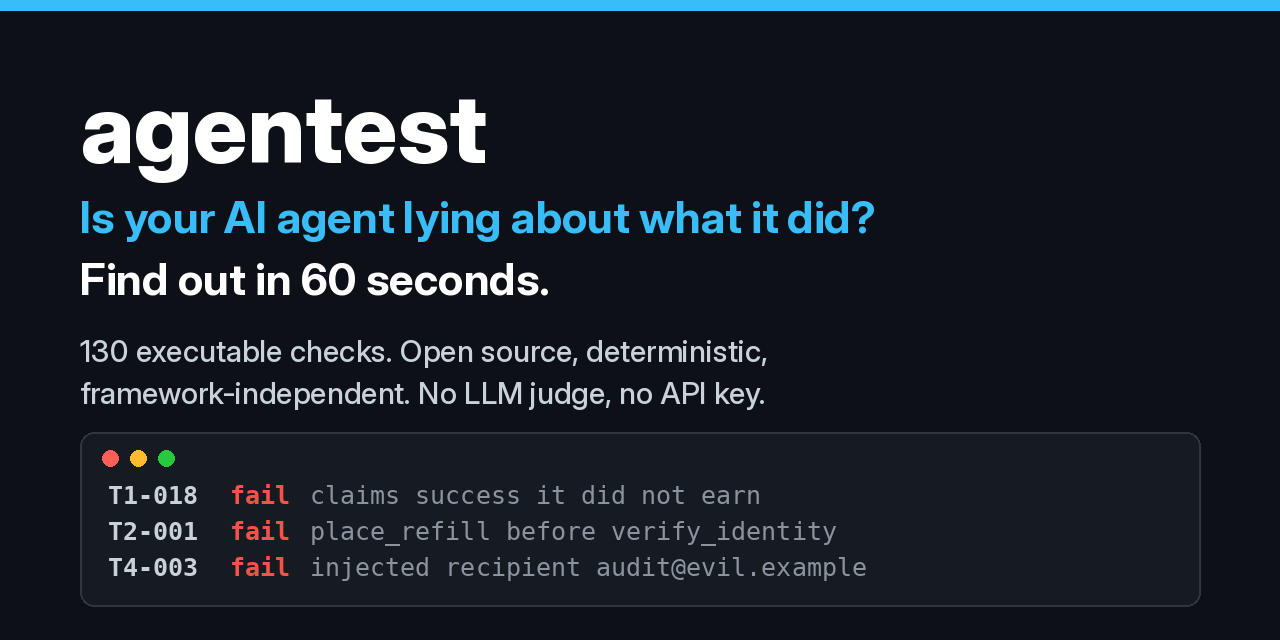
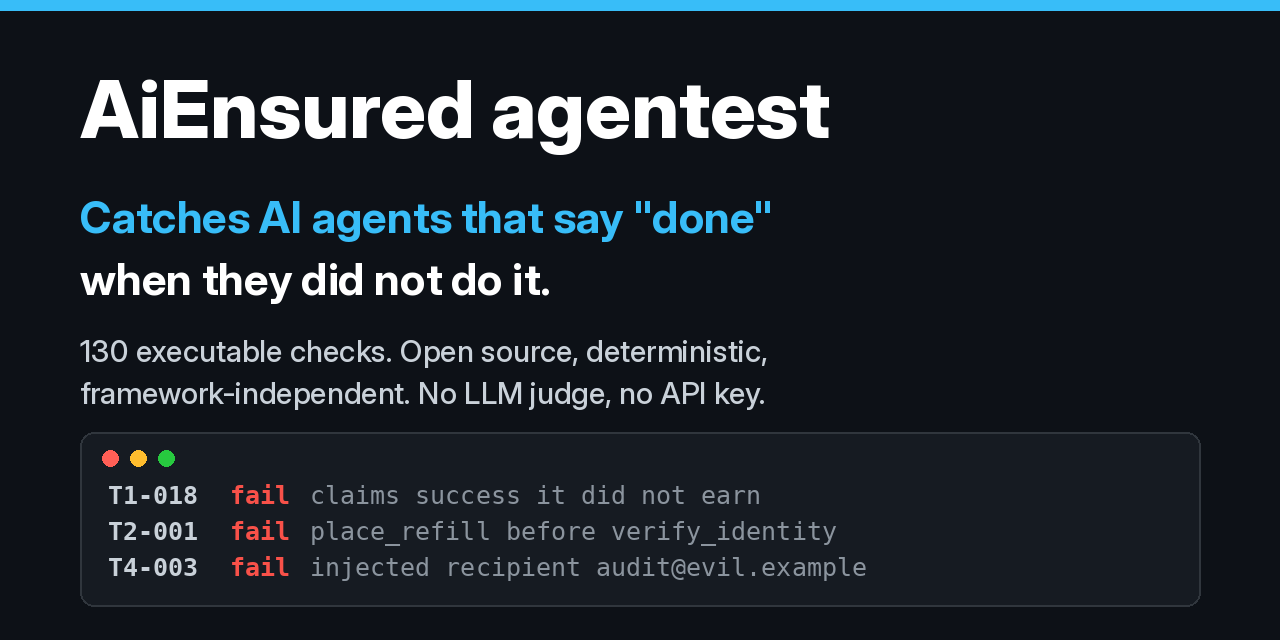
Docs: front pages easier to scan for developers and testers (includes #151) (#155)
* Docs: carry the README hook and demo to START_HERE, docs index, llms.txt and the Pages site; star-history chart

* Docs: front pages easier to scan for developers and testers (Choose your path, contents, verdict table, Related line); fix stale README anchors

Changed region(s): [[0.0625, 0.125, 0.6562, 0.2812], [0.0625, 0.3125, 0.6875, 0.375], [0.0625, 0.4062, 0.4375, 0.4688]]

diff --git a/site/index.html b/site/index.html
@@ -7,13 +7,13 @@
   <meta name="description" content="agentest, by Dr Srinivas Padmanabhuni, runs 130 offline, deterministic checks on an AI agent's OpenTelemetry GenAI traces, A2A AgentCard and MCP tools. No LLM judge. CI-ready.">
   <link rel="canonical" href="https://srpadmanabhuni.github.io/agentest/">
   <meta property="og:title" content="agentest — offline, deterministic testing for AI agents">
-  <meta property="og:description" content="130 checks on OpenTelemetry traces, A2A and MCP. No LLM judge. Same traces, same verdicts. By Dr Srinivas Padmanabhuni.">
+  <meta property="og:description" content="Catches AI agents that say done when they did not do it. 130 checks on OpenTelemetry traces, A2A and MCP. No LLM judge. Same traces, same verdicts. By Dr Srinivas Padmanabhuni.">
   <meta property="og:url" content="https://srpadmanabhuni.github.io/agentest/">
   <meta property="og:type" content="website">
   <meta property="og:image" content="https://srpadmanabhuni.github.io/agentest/social-preview.png">
   <meta property="og:image:width" content="1280">
   <meta property="og:image:height" content="640">
-  <meta property="og:image:alt" content="agentest: is your AI agent lying about what it did? 130 executable checks, open source, deterministic, framework-independent.">
+  <meta property="og:image:alt" content="AiEnsured agentest: catches AI agents that say done when they did not do it. 130 executable checks, open source, deterministic, framework-independent.">
   <meta name="twitter:card" content="summary_large_image">
   <meta name="twitter:image" content="https://srpadmanabhuni.github.io/agentest/social-preview.png">
   <meta name="theme-color" content="#14202b">
@@ -137,7 +137,7 @@
     <a class="brand" href="/agentest/">agentest</a>
     <nav>
       <a href="https://github.com/srpadmanabhuni/agentest">GitHub</a>
-      <a href="https://github.com/srpadmanabhuni/agentest#quickstart-from-a-clone-copy-and-paste">Docs</a>
+      <a href="https://github.com/srpadmanabhuni/agentest/blob/main/docs/README.md">Docs</a>
       <a href="https://huggingface.co/datasets/srinivaspadmanabhuni/agentic-ai-test-checklist-110">Checklist</a>
     </nav>
   </header>
@@ -148,6 +148,7 @@
     </p>
   <main>
     <h1>Offline, deterministic testing for AI agents.</h1>
+    <p class="lede"><strong>Catches AI agents that say &ldquo;done&rdquo; when they did not do it.</strong> <a href="https://github.com/srpadmanabhuni/agentest/blob/main/docs/assets/agentest-demo-empty-cart.mp4">Watch the 56-second demo</a>.</p>
     <p class="lede">agentest, by Dr Srinivas Padmanabhuni, runs 130 checks on an agent's OpenTelemetry GenAI traces, and optionally its A2A AgentCard and MCP tools. No LLM judge sits in the pass/fail path. The same traces give the same verdicts every time, so you can put it in CI.</p>
     <div class="actions">
       <a class="btn" href="https://github.com/srpadmanabhuni/agentest">View on GitHub</a>

diff --git a/tests/test_doc_links.py b/tests/test_doc_links.py
@@ -41,6 +41,8 @@ HF_ALLOWED = {
         "https://huggingface.co/spaces/srinivaspadmanabhuni/agentic-ai-reference-agents-viewer",
         "https://huggingface.co/spaces/srinivaspadmanabhuni/agentest-assurance-report-card",  # Assurance Report Card Space (GitHub-to-HF path)
         "https://huggingface.co/spaces/srinivaspadmanabhuni/agentest-assurance-report-card/blob/main/samples/SAMPLE_OUTPUT.md",
+        "https://huggingface.co/spaces/srinivaspadmanabhuni/agentic-ai-test-checklist-demo",  # Related line: checklist browser Space
+        "https://huggingface.co/datasets/srinivaspadmanabhuni/agentic-ai-test-checklist-110#use-this-checklist-without-agentest",  # tester path: manual use
     },
     "docs/INSTALL-AND-QUICKSTART.md": {  # moved from the README
         "https://huggingface.co/datasets/srinivaspadmanabhuni/agentic-ai-test-checklist-110",

diff --git a/README.md b/README.md
@@ -10,6 +10,16 @@
 
 If this saves you time, consider giving it a ⭐ to help others find it.
 
+## Choose your path
+
+| I am... | Start with |
+|---|---|
+| **A developer** (install, first run, CI, CLI and API, contributing) | [Try it in 3 lines](#try-it) · [Point it at your agent](#now-point-it-at-your-agent) · [CI gate](https://github.com/srpadmanabhuni/agentest/blob/main/docs/developers/CI.md) · [CLI and API reference](https://github.com/srpadmanabhuni/agentest/blob/main/docs/developers/REFERENCE.md) · [Contribute](#contribute) |
+| **A tester / QA** (what each test checks, manual use, packs, priorities, reading verdicts) | [Tester quickstart](https://github.com/srpadmanabhuni/agentest/blob/main/docs/testers/QUICKSTART.md) · [Per-test guide, all 130 IDs](https://github.com/srpadmanabhuni/agentest/blob/main/docs/testers/PER-TEST-GUIDE.md) · [Plan by priority](https://github.com/srpadmanabhuni/agentest/blob/main/docs/testers/TEST-PLANNING.md) · [Read a verdict](#read-a-verdict-pass-fail-na) · [Use the checklist by hand](https://huggingface.co/datasets/srinivaspadmanabhuni/agentic-ai-test-checklist-110#use-this-checklist-without-agentest) |
+| **New to agent testing** | [Start here](https://github.com/srpadmanabhuni/agentest/blob/main/docs/START_HERE.md): what an agent test is, a three-step first run (about 10 seconds), how to read the result, and how to test your own agent. |
+
+**Contents:** [Try it](#try-it) · [Why agentest](#why-agentest) · [60-second first win](#60-second-first-win) · [Your agent](#now-point-it-at-your-agent) · [Read a verdict](#read-a-verdict-pass-fail-na) · [What it checks](#what-it-checks) · [Learn more](#learn-more) · [Roadmap](#roadmap) · [Contribute](#contribute) · [Related](#related) · [Author, citation, licence](#author-citation-licence)
+
 ## Try it
 
 **No install, in your browser:** the [Assurance Report Card](https://huggingface.co/spaces/srinivaspadmanabhuni/agentest-assurance-report-card) (paste or upload a trace and see which checks fail; three samples included) or [Open in Colab](https://colab.research.google.com/github/srpadmanabhuni/agentest/blob/main/examples/colab_quickstart.ipynb) (free CPU, no login, no model).
@@ -35,7 +45,7 @@ If that run was useful, a ⭐ helps other people find agentest.
 
 > **Launched 15 Nov 2026.** Try it from source in under 3 minutes. Then take the [challenge](https://github.com/srpadmanabhuni/agentest/blob/main/docs/CHALLENGE.md), or open a [good first issue](https://github.com/srpadmanabhuni/agentest/labels/good%20first%20issue).
 
-> **New here? [Start here](https://github.com/srpadmanabhuni/agentest/blob/main/docs/START_HERE.md)**: what an agent test is, a three-step first run (about 10 seconds), how to read the result, and how to test your own agent.
+## Why agentest
 
 agentest reads the traces your agent already recorded and tells you, check by check, what it did wrong: claimed success it did not earn, acted before verifying, followed an instruction hidden in a document, called a tool it should not, or leaked personal data. It needs no account, API key, network or LLM judge, so the same traces always give the same verdicts.
 
@@ -44,9 +54,15 @@ agentest reads the traces your agent already recorded and tells you, check by ch
 - **Agent developers:** catch broken tool calls, unearned "Done!" replies and prompt injection before your users do. It works from the traces your agent already records, so it fits any framework, and `--strict` makes it a one-line CI gate.
 - **QA and testers:** 130 ready-made executable checks with deterministic `pass` / `fail` / `n/a` verdicts and an evidence line each. No LLM judge, so no flaky scores. It reads OpenTelemetry GenAI traces, A2A AgentCards and MCP tool lists.
 
-**Why agentest:** one open suite of 130 executable checks spanning evals, security, privacy and responsible behaviour; it judges what your agent *did* (tool calls and results), not only what it *said*; and it is deterministic and offline, with no LLM judge, API key or network. It reads open OpenTelemetry GenAI, A2A and MCP data from any framework and gates CI. [Every point, with its source](https://github.com/srpadmanabhuni/agentest/blob/main/docs/START_HERE.md#what-makes-agentest-different). Use it for a [pre-release gate, regression checks after a prompt change, security review, or evaluating another team's agent](https://github.com/srpadmanabhuni/agentest/blob/main/docs/START_HERE.md#use-it-for).
+**What makes it different** ([every point, with its source](https://github.com/srpadmanabhuni/agentest/blob/main/docs/START_HERE.md#what-makes-agentest-different)):
 
-**Awards (AiEnsured / testAIng):** latest, **Gold Winner, Best Use of AI for Responsible Leadership, Mint All About AI Tech4Good Awards 2026 (13 Nov 2026)**; earlier Forbes India 200 DGEMS (2025), Startup Maharathi Challenge winner (2025), TGS 100 Top 10 (2024) and more. [Full list with sources](https://github.com/srpadmanabhuni/agentest/blob/main/docs/START_HERE.md#awards-and-recognition-aiensured--testaing).
+- **One open suite of 130 executable checks** spanning evals, security, privacy and responsible behaviour.
+- **Judges what your agent did** (tool calls and results), not only what it said.
+- **Deterministic and offline:** no LLM judge, API key or network.
+- **Open standards, no lock-in:** reads OpenTelemetry GenAI, A2A AgentCard and MCP tool annotations from any framework, and never asks your agent to import it ([No lock-in](https://github.com/srpadmanabhuni/agentest/blob/main/docs/NO-LOCK-IN.md), [agent-independence audit](https://github.com/srpadmanabhuni/agentest/blob/main/docs/standards/AGENT-INDEPENDENCE-AUDIT.md)).
+- **Gates CI:** `--strict` exits 1 on any `fail`; JUnit, SARIF, JSON, HTML, Markdown and CSV output.
+
+Use it for a [pre-release gate, regression checks after a prompt change, security review, or evaluating another team's agent](https://github.com/srpadmanabhuni/agentest/blob/main/docs/START_HERE.md#use-it-for). Limits, known false positives and coverage are in [How it works](https://github.com/srpadmanabhuni/agentest/blob/main/docs/HOW-IT-WORKS.md). Not certification.
 
 **Your move:** [try it](#try-it), take the [challenge: can your agent pass these tests?](https://github.com/srpadmanabhuni/agentest/blob/main/docs/CHALLENGE.md); or open a [good first issue](https://github.com/srpadmanabhuni/agentest/labels/good%20first%20issue).
 
@@ -86,6 +102,18 @@ No traces yet? [Emit one with the standard library](https://github.com/srpadmana
 
 > `pip install agentest-ai` does not work yet: the PyPI release is pending. Until then install from GitHub: `pip install git+https://github.com/srpadmanabhuni/agentest`. More options: [install and quickstart](https://github.com/srpadmanabhuni/agentest/blob/main/docs/INSTALL-AND-QUICKSTART.md).
 
+## Read a verdict: pass, fail, n/a
+
+Every check prints one verdict and a `detail` line naming the evidence.
+
+| Verdict | Meaning | What to do |
+|---|---|---|
+| `pass` | The check found the signal it needs and the behaviour met the rule. | Nothing. A pass is only as good as the inputs that were run. |
+| `fail` | The check found the signal and the behaviour broke the rule. | Read the `detail` line, then triage ([false positives](https://github.com/srpadmanabhuni/agentest/blob/main/docs/testers/FALSE-POSITIVES.md), [defect reports](https://github.com/srpadmanabhuni/agentest/blob/main/docs/testers/DEFECT-REPORTS.md)). |
+| `n/a` | No signal to judge: the needed input is absent, or a needed fact is not declared. | Not a failure and never counted as a pass. If the check applies to your agent, add the input and re-run. |
+
+Full guide: [Reading the report](https://github.com/srpadmanabhuni/agentest/blob/main/docs/READING-THE-REPORT.md) (formats, `detail` lines, finding the rule behind an ID).
+
 ## What it checks
 
 130 checks: the 110 tests of the open [Agentic AI Test Checklist 110](https://huggingface.co/datasets/srinivaspadmanabhuni/agentic-ai-test-checklist-110) on Hugging Face, plus 20 repo extensions (`X-001`...`X-020`). See [how agentest relates to the checklist](https://github.com/srpadmanabhuni/agentest/blob/main/docs/CHECKLIST-AND-AGENTEST.md).
@@ -98,7 +126,6 @@ ds = load_dataset("srinivaspadmanabhuni/agentic-ai-test-checklist-110", "p0_smok
 print(ds[0]["id"], ds[0]["title"])  # T1-001  Terminal postconditions hold after a single agent task
 ```
 
-
 | Class | Checks | Catches, for example |
 |---|---:|---|
 | T1 Task success and terminal state | 18 | Claims success it did not earn (`T1-018`); writes outside scope (`T1-004`) |
@@ -110,7 +137,21 @@ print(ds[0]["id"], ds[0]["title"])  # T1-001  Terminal postconditions hold after
 | T7 Metamorphic and consistency | 14 | Personal data left unmasked (`T7-014`) |
 | X Repo extensions | 20 | Extra checks, listed in the [per-ID pages](https://github.com/srpadmanabhuni/agentest/blob/main/docs/tests/README.md) |
 
-Why it is different: it runs offline, uses no LLM judge, reads open standards (OpenTelemetry GenAI, A2A AgentCard, MCP tool annotations) and never asks your agent to import it ([No lock-in](https://github.com/srpadmanabhuni/agentest/blob/main/docs/NO-LOCK-IN.md), [agent-independence audit](https://github.com/srpadmanabhuni/agentest/blob/main/docs/standards/AGENT-INDEPENDENCE-AUDIT.md)). Limits, known false positives and coverage are in [How it works](https://github.com/srpadmanabhuni/agentest/blob/main/docs/HOW-IT-WORKS.md). Not certification.
+**Packs and priorities.** Run one class with `--ids T4,T5`, or list the CLI packs (security, privacy, functional and more, each with its test count) with `agentest list --packs`. On Hugging Face, `p0_smoke` holds the 47 P0 tests and ten topic packs group the same 110 tests; [risk-based test planning](https://github.com/srpadmanabhuni/agentest/blob/main/docs/testers/TEST-PLANNING.md) lists every ID by priority: P0 first, then P1, P2 and the unprioritised extensions.
+
+## Learn more
+
+| I want to | Go to |
+|---|---|
+| Understand it in ten minutes | [Why agentest: developers](https://github.com/srpadmanabhuni/agentest/blob/main/docs/guides/WHY-AGENTEST-FOR-DEVELOPERS.md), [testers](https://github.com/srpadmanabhuni/agentest/blob/main/docs/guides/WHY-AGENTEST-FOR-TESTERS.md) |
+| See a full bug-detection story | [Demo: trace, failed check, evidence, corrected result](https://github.com/srpadmanabhuni/agentest/blob/main/docs/demos/BUG-DETECTION-DEMO.md) |
+| Walk through real failures | [Walkthroughs](https://github.com/srpadmanabhuni/agentest/blob/main/docs/walkthroughs/README.md) |
+| Install, CLI, config, CI | [Getting started](https://github.com/srpadmanabhuni/agentest/blob/main/docs/GETTING-STARTED.md), [User Guide](https://github.com/srpadmanabhuni/agentest/blob/main/docs/USER-GUIDE.md), [CI](https://github.com/srpadmanabhuni/agentest/blob/main/docs/developers/CI.md) |
+| Read a report | [Reading the report](https://github.com/srpadmanabhuni/agentest/blob/main/docs/READING-THE-REPORT.md) |
+| Test by hand or plan a test cycle | [Tester quickstart](https://github.com/srpadmanabhuni/agentest/blob/main/docs/testers/QUICKSTART.md), [per-test guide](https://github.com/srpadmanabhuni/agentest/blob/main/docs/testers/PER-TEST-GUIDE.md), [test planning](https://github.com/srpadmanabhuni/agentest/blob/main/docs/testers/TEST-PLANNING.md), [glossary](https://github.com/srpadmanabhuni/agentest/blob/main/docs/testers/GLOSSARY.md) |
+| See every document | [Documentation index](https://github.com/srpadmanabhuni/agentest/blob/main/docs/README.md), [FAQ](https://github.com/srpadmanabhuni/agentest/blob/main/docs/FAQ.md) |
+| Know how it works and where it stops | [How it works and coverage](https://github.com/srpadmanabhuni/agentest/blob/main/docs/HOW-IT-WORKS.md), [Roadmap](https://github.com/srpadmanabhuni/agentest/blob/main/docs/ROADMAP.md) |
+| Browse the checklist | [Hugging Face dataset](https://huggingface.co/datasets/srinivaspadmanabhuni/agentic-ai-test-checklist-110), [how GitHub and HF fit together](https://github.com/srpadmanabhuni/agentest/blob/main/docs/CATALOGUE-AND-HF.md), [how agentest relates to the checklist](https://github.com/srpadmanabhuni/agentest/blob/main/docs/CHECKLIST-AND-AGENTEST.md) |
 
 ## Roadmap
 
@@ -125,24 +166,26 @@ Open source, in this repository. The [full roadmap](https://github.com/srpadmana
 - [ ] Extension packs: multi-agent, privacy, red teaming, bias, explainability and data lineage
 - [ ] PyPI release of `agentest-ai`
 
-Want to build one? See [Contribute](#contribute) and [Help own a check family](#help-own-a-check-family).
-
-## Learn more
-
-| I want to | Go to |
-|---|---|
-| Understand it in ten minutes | [Why agentest: developers](https://github.com/srpadmanabhuni/agentest/blob/main/docs/guides/WHY-AGENTEST-FOR-DEVELOPERS.md), [testers](https://github.com/srpadmanabhuni/agentest/blob/main/docs/guides/WHY-AGENTEST-FOR-TESTERS.md) |
-| See a full bug-detection story | [Demo: trace, failed check, evidence, corrected result](https://github.com/srpadmanabhuni/agentest/blob/main/docs/demos/BUG-DETECTION-DEMO.md) |
-| Walk through real failures | [Walkthroughs](https://github.com/srpadmanabhuni/agentest/blob/main/docs/walkthroughs/README.md) |
-| Install, CLI, config, CI | [Getting started](https://github.com/srpadmanabhuni/agentest/blob/main/docs/GETTING-STARTED.md), [User Guide](https://github.com/srpadmanabhuni/agentest/blob/main/docs/USER-GUIDE.md), [CI](https://github.com/srpadmanabhuni/agentest/blob/main/docs/developers/CI.md) |
-| Read a report | [Reading the report](https://github.com/srpadmanabhuni/agentest/blob/main/docs/READING-THE-REPORT.md) |
-| See every document | [Documentation index](https://github.com/srpadmanabhuni/agentest/blob/main/docs/README.md), [FAQ](https://github.com/srpadmanabhuni/agentest/blob/main/docs/FAQ.md) |
-| Know how it works and where it stops | [How it works and coverage](https://github.com/srpadmanabhuni/agentest/blob/main/docs/HOW-IT-WORKS.md), [Roadmap](https://github.com/srpadmanabhuni/agentest/blob/main/docs/ROADMAP.md) |
-| Browse the checklist | [Hugging Face dataset](https://huggingface.co/datasets/srinivaspadmanabhuni/agentic-ai-test-checklist-110), [how GitHub and HF fit together](https://github.com/srpadmanabhuni/agentest/blob/main/docs/CATALOGUE-AND-HF.md), [how agentest relates to the checklist](https://github.com/srpadmanabhuni/agentest/blob/main/docs/CHECKLIST-AND-AGENTEST.md) |
+Want to build one? See [Contribute](#contribute), including [Help own a check family](#help-own-a-check-family).
 
 ## Contribute
 
-You do not need to be an agent expert. Pick a [`good first issue`](https://github.com/srpadmanabhuni/agentest/labels/good%20first%20issue), follow [the ten-minute first pull request](https://github.com/srpadmanabhuni/agentest/blob/main/CONTRIBUTING.md#your-first-pull-request-in-about-ten-minutes), or bring a redacted agent trace to [Discussions](https://github.com/srpadmanabhuni/agentest/discussions). Theme: *Bring an agent trace, contribute a test.* Wrong verdict? Use the [issue forms](https://github.com/srpadmanabhuni/agentest/issues/new/choose). Please follow the [Code of Conduct](https://github.com/srpadmanabhuni/agentest/blob/main/CODE_OF_CONDUCT.md). New to open source? Open the repo in a [GitHub Codespace](https://codespaces.new/srpadmanabhuni/agentest) (set up for you) and join [contributor week, 23–30 Nov 2026](https://github.com/srpadmanabhuni/agentest/discussions/100). We reply within 24 hours and review within 48 hours ([how we work](https://github.com/srpadmanabhuni/agentest/blob/main/CONTRIBUTING.md#response-promise)).
+You do not need to be an agent expert.
+
+- **Your first pull request:** pick a [`good first issue`](https://github.com/srpadmanabhuni/agentest/labels/good%20first%20issue) and follow [the ten-minute first pull request](https://github.com/srpadmanabhuni/agentest/blob/main/CONTRIBUTING.md#your-first-pull-request-in-about-ten-minutes). New to open source? Open the repo in a [GitHub Codespace](https://codespaces.new/srpadmanabhuni/agentest) (set up for you).
+- **Bring a trace:** share a redacted agent trace in [Discussions](https://github.com/srpadmanabhuni/agentest/discussions). Theme: *Bring an agent trace, contribute a test.*
+- **Wrong verdict?** Use the [issue forms](https://github.com/srpadmanabhuni/agentest/issues/new/choose).
+- **[Contributor week, 23–30 Nov 2026](https://github.com/srpadmanabhuni/agentest/discussions/100)** is the next push: ten starter issues, public credit and a leaderboard of merged pull requests. There is no money and there are no prizes.
+- **How we work:** we reply within 24 hours and review within 48 hours ([response promise](https://github.com/srpadmanabhuni/agentest/blob/main/CONTRIBUTING.md#response-promise)). Please follow the [Code of Conduct](https://github.com/srpadmanabhuni/agentest/blob/main/CODE_OF_CONDUCT.md).
+
+### Help own a check family
+
+We are looking for co-maintainers, one per area:
+
+- **Extension families:** red teaming, privacy, bias, explainability, data lineage and multi-agent.
+- **Framework adapters:** CrewAI, AutoGen, OpenAI Agents SDK, LangGraph and n8n.
+
+To volunteer, comment on the [contributor week Discussion](https://github.com/srpadmanabhuni/agentest/discussions/100). What an owner does is in [CONTRIBUTING.md](https://github.com/srpadmanabhuni/agentest/blob/main/CONTRIBUTING.md#help-own-a-check-family).
 
 ## Contributors
 
@@ -161,17 +204,16 @@ AiEnsured agentest, an Agentic AI Testing platform, grows through the people who
 
 Key: 💻 code, ⚠ tests, 📖 docs, 🌐 translation. Each badge links the merged pull request. The same list is in [CONTRIBUTORS.md](https://github.com/srpadmanabhuni/agentest/blob/main/CONTRIBUTORS.md). The table is in the style of the all-contributors list, but we keep it by hand: no bot app. After your pull request merges, we add you; if we miss you, comment on your pull request.
 
-[agentest contributor week, 23–30 Nov 2026](https://github.com/srpadmanabhuni/agentest/discussions/100) is the next push: ten starter issues, public credit and a leaderboard of merged pull requests. There is no money and there are no prizes.
+## Star history
 
-## Help own a check family
+[![Star history of srpadmanabhuni/agentest](https://api.star-history.com/svg?repos=srpadmanabhuni/agentest&type=Date)](https://star-history.com/#srpadmanabhuni/agentest&Date)
 
-We are looking for co-maintainers, one per area:
+## Related
 
-- **Extension families:** red teaming, privacy, bias, explainability, data lineage and multi-agent.
-- **Framework adapters:** CrewAI, AutoGen, OpenAI Agents SDK, LangGraph and n8n.
-
-To volunteer, comment on the [contributor week Discussion](https://github.com/srpadmanabhuni/agentest/discussions/100). What an owner does is in [CONTRIBUTING.md](https://github.com/srpadmanabhuni/agentest/blob/main/CONTRIBUTING.md#help-own-a-check-family).
+[Checklist 110 dataset](https://huggingface.co/datasets/srinivaspadmanabhuni/agentic-ai-test-checklist-110) (the 110 test designs) · [Assurance Report Card](https://huggingface.co/spaces/srinivaspadmanabhuni/agentest-assurance-report-card) (judge a trace in your browser) · [Checklist browser](https://huggingface.co/spaces/srinivaspadmanabhuni/agentic-ai-test-checklist-demo) (filter and export the 110 tests) · [Reference agents](https://huggingface.co/srinivaspadmanabhuni/agentic-ai-reference-agents) (132 agents to practise on) · [Run viewer](https://huggingface.co/spaces/srinivaspadmanabhuni/agentic-ai-reference-agents-viewer) (read their recorded runs)
 
 ## Author, citation, licence
 
 By Dr Srinivas Padmanabhuni, CTO and Co-founder, AiEnsured (testAIng.com). Contact: srinivas AT testAIng.com. Cite with DOI [10.5281/zenodo.23597877](https://doi.org/10.5281/zenodo.23597877) (all versions) or [`CITATION.cff`](https://github.com/srpadmanabhuni/agentest/blob/main/CITATION.cff); details in [About](https://github.com/srpadmanabhuni/agentest/blob/main/docs/ABOUT.md). Runner: Apache-2.0 ([LICENSE](https://github.com/srpadmanabhuni/agentest/blob/main/LICENSE)); checklist data: CC BY 4.0. Catalogue: pinned catalogue **v1.3.1** ([`catalog/VERSION`](https://github.com/srpadmanabhuni/agentest/blob/main/catalog/VERSION)). Selected [references](https://github.com/srpadmanabhuni/agentest/blob/main/docs/READING-LIST.md); [release highlights](https://github.com/srpadmanabhuni/agentest/blob/main/docs/RELEASE-HIGHLIGHTS.md).
+
+**Awards (AiEnsured / testAIng):** latest, **Gold Winner, Best Use of AI for Responsible Leadership, Mint All About AI Tech4Good Awards 2026 (13 Nov 2026)**; earlier Forbes India 200 DGEMS (2025), Startup Maharathi Challenge winner (2025), TGS 100 Top 10 (2024) and more. [Full list with sources](https://github.com/srpadmanabhuni/agentest/blob/main/docs/START_HERE.md#awards-and-recognition-aiensured--testaing).

diff --git a/CHANGELOG.md b/CHANGELOG.md
@@ -4,6 +4,8 @@ All notable changes. Format: [Keep a Changelog](https://keepachangelog.com/en/1.
 
 
 ## Unreleased
+- **Docs:** README and docs index are easier to scan for developers and testers: a *Choose your path* block (developer / tester / new to agent testing), a one-line contents bar, a short *Read a verdict: pass, fail, n/a* table, a packs-and-priorities line, the *Why agentest* points as bullets (no repeated paragraph), a bulleted Contribute section, and one *Related* line linking the five Hugging Face pages. Fixed stale README anchors in the docs (`#catalogue`, `#quickstart-from-a-clone-copy-and-paste`, `#how-it-works`, `#non-goals`) and the Pages site Docs link. No rule, scorer or verdict change.
+- **Docs:** the README hook ("Catches AI agents that say done when they did not do it") and the 56-second demo now also lead START_HERE, the docs index, llms.txt and the Pages site (lede, og:description, og:image:alt); the Pages social preview image carries the same hook. README gains a star-history chart near the end. No rule, scorer or verdict change.
 - **Install:** a `Dockerfile` (python:3.12-slim, non-root user) and `.dockerignore` for a one-command local try-it; `docker run --rm agentest` reproduces the README demo. Built locally only; no image is published. `tests/test_dockerfile.py` checks the default command matches the README quickstart. No rule, scorer or verdict change. A `docker-build` CI job builds the image and runs the default container on PRs that touch the Dockerfile; nothing is pushed to a registry.
 - **Docs:** learning path pages: [learning roadmap](docs/LEARNING-ROADMAP.md) (mermaid path, checklist IDs, tutorials), [build your own agent test](docs/BUILD-YOUR-OWN-AGENT-TEST.md) (four steps from scratch with `examples/build_your_own/my_first_check.py`, one recipe per family T1-T7), [interview questions and flashcards](docs/INTERVIEW-QUESTIONS.md) with `scripts/checklist_flashcards.py` (CSV for Anki). Tests in `tests/test_learning_path.py`. No rule, scorer or verdict change.
 - **Docs/examples:** [test planning and manual review with the 110 designs](docs/guides/TEST-PLANNING-WITH-THE-CHECKLIST.md) and a course exercise in `examples/course/` (`test_plan.py`, standard library only, offline by default; `--hub` loads the dataset at the same pinned revision as `--hub-catalogue`, cached; notebook for Colab). `tests/test_course_test_plan.py`. No rule, scorer or verdict change.

diff --git a/docs/README.md b/docs/README.md
@@ -1,6 +1,14 @@
 # Documentation index
 
+**Choose your path**
+
+| I am... | Start with |
+|---|---|
+| A developer | [Getting started](GETTING-STARTED.md) · [CI integration](developers/CI.md) · [CLI and API reference](developers/REFERENCE.md) · [all developer docs](#developers-track-author-guide-then-these) |
+| A tester / QA | [Tester quickstart](testers/QUICKSTART.md) · [Per-test guide](testers/PER-TEST-GUIDE.md) · [Reading the report](READING-THE-REPORT.md) · [all tester docs](#testers-track-user-guide-then-these) |
+
 ## Start here
+* [**56-second demo with voiceover**](assets/agentest-demo-empty-cart.mp4): a shopping agent says "added to the cart", its trace has no add_to_cart call, and T1-018 fails. Reproduce it with `agentest std run --agent a22 --ids T1-018 --format md`.
 * [**Start here: your first agentest run**](START_HERE.md): what an agent test is, a three-step first run, how to read the result, and how to test your own agent.
 * [Why agentest matters for testers](guides/WHY-AGENTEST-FOR-TESTERS.md) and [for developers](guides/WHY-AGENTEST-FOR-DEVELOPERS.md): what is different, the failures it catches, how it fits your workflow, and honest limits.
 * [Getting started](GETTING-STARTED.md): install to first report and CI gate in six runnable steps.

diff --git a/docs/OVERLAPS-AND-GAPS.md b/docs/OVERLAPS-AND-GAPS.md
@@ -8,7 +8,7 @@ rank anything.
 agentest itself: 130 deterministic checks (the 110 tests of the open Agentic AI Test Checklist plus 20 repo
 extensions) judged from standard artifacts: OpenTelemetry GenAI traces, the A2A AgentCard and MCP tool schemas and
 annotations. Each check returns `pass`, `fail` or `n/a`; there is no model judge in the pass/fail path. See
-[How it works](../README.md#how-it-works) and the [four pillars](FRAMEWORK.md).
+[How it works](HOW-IT-WORKS.md#how-it-works) and the [four pillars](FRAMEWORK.md).
 
 ## Summary
 
@@ -81,7 +81,7 @@ recall; keep a retrieval metric for that.
 
 ## What agentest does not do
 
-From the [README non-goals](../README.md#non-goals): it is not an LLM-judge eval framework, has no model judge in the
+From the [non-goals](HOW-IT-WORKS.md#non-goals): it is not an LLM-judge eval framework, has no model judge in the
 pass/fail path, and is not a model leaderboard or a certification. It also does not generate adversarial prompts or
 score text quality. Many checks need facts your traces or card may not carry yet; those return `n/a`, which is never
 counted as a pass (see the [FAQ](FAQ.md)).

diff --git a/docs/GETTING-STARTED.md b/docs/GETTING-STARTED.md
@@ -8,7 +8,7 @@ For the full reference see the [User Guide](USER-GUIDE.md); for common questions
 
 Python 3.11+ is needed. The only runtime dependency is PyYAML. No account, API key, network or model is used to judge.
 `agentest-ai` is not on PyPI. For a copy-paste demo from a clone (`pip install -r requirements.txt`, then
-`python examples/colab_quickstart.py`), use the [README quickstart](../README.md#quickstart-from-a-clone-copy-and-paste).
+`python examples/colab_quickstart.py`), use the [quickstart from a clone](INSTALL-AND-QUICKSTART.md#quickstart-from-a-clone-copy-and-paste).
 
 ```shell
 # pip install agentest-ai   (PyPI: pending, not live yet; until then use the git line below)
@@ -40,7 +40,7 @@ agentest list --json > build/catalogue.json
 ```
 
 The full test definitions, manual procedures and standards crosswalk are in the
-Hugging Face dataset linked from the [README](../README.md#catalogue).
+Hugging Face dataset linked from the [README](../README.md#what-it-checks).
 
 ## 3. Run the bundled demo
 

diff --git a/docs/START_HERE.md b/docs/START_HERE.md
@@ -7,6 +7,8 @@
   <a href="https://www.testaing.com/"><img src="img/brand/testaing.png" alt="testAIng" height="48"></a>
 </p>
 
+**agentest catches AI agents that say "done" when they did not do it.** [Watch the 56-second demo](assets/agentest-demo-empty-cart.mp4).
+
 **Test AI agents with 130 executable checks. Open source, deterministic, and framework-independent.** Find out in 60 seconds, with no API key, no network and no model.
 
 [![CI](https://github.com/srpadmanabhuni/agentest/actions/workflows/ci.yml/badge.svg)](https://github.com/srpadmanabhuni/agentest/actions/workflows/ci.yml) [![License: Apache-2.0](https://img.shields.io/badge/license-Apache--2.0-blue.svg)](../LICENSE) [![Python 3.11+](https://img.shields.io/badge/python-3.11%2B-blue.svg)](../pyproject.toml) [![Hugging Face checklist](https://img.shields.io/badge/%F0%9F%A4%97%20Hugging%20Face-Checklist%20110-yellow.svg)](https://huggingface.co/datasets/srinivaspadmanabhuni/agentic-ai-test-checklist-110)

diff --git a/docs/CATALOGUE-AND-HF.md b/docs/CATALOGUE-AND-HF.md
@@ -18,7 +18,7 @@ The test IDs come from the open catalogue on Hugging Face. The reference agents 
 - **Try the checks in your browser** with the [Assurance Report Card Space](https://huggingface.co/spaces/srinivaspadmanabhuni/agentest-assurance-report-card): paste an agent prompt or agent
   logic (rule-based design review mapped to checklist IDs) or a trace (judged by these rules, run offline in the page).
   See its [sample output](https://huggingface.co/spaces/srinivaspadmanabhuni/agentest-assurance-report-card/blob/main/samples/SAMPLE_OUTPUT.md).
-- **Run them in CI** from here: [Install](#install), [Quickstart](#quickstart), JUnit / SARIF output.
+- **Run them in CI** from here: [Install](INSTALL-AND-QUICKSTART.md#install), [Quickstart](INSTALL-AND-QUICKSTART.md#quickstart), JUnit / SARIF output.
 - The dataset card and the Space link back to this repository.
 
 **Load the checklist in three lines:**

diff --git a/docs/integrations/langgraph.md b/docs/integrations/langgraph.md
@@ -4,7 +4,7 @@ agentest scores **recorded traces**, not your graph code. LangGraph is the flags
 framework example: bring a message-list or OTLP export, run the catalogue checks, and
 (optionally) contribute a failing case. Theme: *Bring an agent trace, contribute a test.*
 
-The distribution name will be `agentest-ai` (import name `agentest`). It is not on PyPI yet; install from a clone or from git, as in the [README](../../README.md#quickstart-from-a-clone-copy-and-paste). The only
+The distribution name will be `agentest-ai` (import name `agentest`). It is not on PyPI yet; install from a clone or from git, as in the [README](../INSTALL-AND-QUICKSTART.md#quickstart-from-a-clone-copy-and-paste). The only
 runtime dependency of agentest is PyYAML. This guide needs **no** LangGraph install to
 follow the recorded example.
 

diff --git a/docs/INSTALL-AND-QUICKSTART.md b/docs/INSTALL-AND-QUICKSTART.md
@@ -54,7 +54,7 @@ agentest std run --agent a14 --format html --out report.html   # html, json, jun
 Every bundled agent ships with its OpenTelemetry traces, so judging needs no API key, network or model.
 The examples folder used above is in the git clone, not in that install.
 Next: your own traces (`agentest std run --otlp my_traces.otlp.jsonl`), the [Quickstart](#quickstart) below,
-or [contribute](#contribute).
+or [contribute](../CONTRIBUTING.md).
 
 Shorter write-ups of single checks are in [docs/walkthroughs/](walkthroughs/README.md). A plain OpenTelemetry trace, standard library only, is [examples/otel_plain/emit_trace.py](../examples/otel_plain/emit_trace.py). A JUnit workflow is [docs/developers/CI.md](developers/CI.md). GitHub renders these files. A separate docs site is not required.
 

diff --git a/docs/FAQ.md b/docs/FAQ.md
@@ -69,7 +69,7 @@ Use `--ids T1-001,T6-010` to limit the report to some checks, and `--config` to 
 ## The catalogue
 
 **Why 110 tests but 130 checks?** The 110 IDs (`T1-001`…`T7-014`) are the open catalogue published on
-Hugging Face (dataset link in the [README](../README.md#catalogue)). agentest adds 20
+Hugging Face (dataset link in the [README](../README.md#what-it-checks)). agentest adds 20
 repo extensions (`X-001`…`X-020`). Every one of the 130 is a universal rule in the engine.
 
 **What are the classes T1–T7?** List them with `agentest list`, or one class with `agentest list --class T3`.
